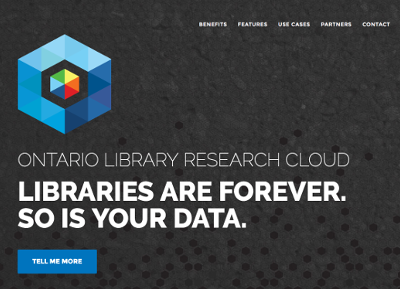
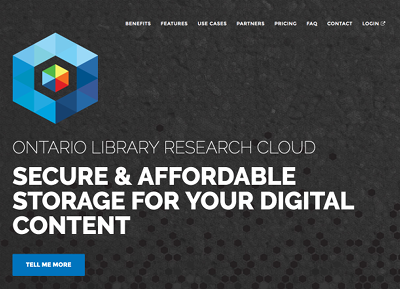
Added FAQ and updated content

Changed region(s): [[0.03, 0.0934, 0.9, 0.8097], [0.03, 0.8408, 0.24, 0.9654], [0.3, 0.0623, 0.99, 0.0934]]

diff --git a/themes/hugo-agency-theme/layouts/partials/pricing.html b/themes/hugo-agency-theme/layouts/partials/pricing.html
@@ -8,26 +8,20 @@
                 <h3 class="section-subheading text-mutedwith ">{{ with .Site.Params.pricing.subtitle }}{{ . | markdownify }}{{ end }}</h3>
             </div>
         </div>
-
-        <div class="table-responsive">
-            <table class="table table-bordered table-hover">
+        <div class="table-responsive col-sm-8 col-sm-offset-2">
+            <table class="table">
                 <tr>
-                    <th>Service</th>
+                    <th></th>
                     <th>OCUL Libraries</th> 
                     <th>Other Canadian Libraries</th>
                 </tr>
                 <tr>
-                    <td>Base Subscription<br>
-                    <div class="tab-indent"><em>Includes:</em></div>
-                    <div class="tab-indent"><em>5TB of object storage</em></div>
-                    <div class="tab-indent"><em>Technical support from Scholars Portal staff</em></div>
-                    <div class="tab-indent"><em>Voting representation on governance group (OCUL only)</em></div>
-                    </td>
+                    <td>Base Subscription *</td>
                     <td>$1600/year</td>
                     <td>$3950/year</td>
                 </tr>
                 <tr>
-                    <td colspan="3">Additional Storage</td>
+                    <td colspan="3">Additional Storage:</td>
                 </tr>
                 <tr>
                     <td class="tab-indent">Per 1 TB</td>
@@ -45,10 +39,7 @@
                     <td>$39500/year</td>
                 </tr>
                 <tr>
-                    <td>Data Transfer Services
-                        <div class="tab-indent"><em>From disk or tape to the cloud</em></div>
-                        <div class="tab-indent"><em>Charged per hour of staff time</em></div>
-                    </td>
+                    <td>Data Transfer Services **</td>
                     <td>$75/hour</td>
                     <td>$100/hour</td>
                 </tr>
@@ -61,6 +52,9 @@
                     <td colspan="2">Pricing Available on Request</td>
                 </tr>
             </table>
+            <br>
+            <div>*  Includes 5TB of object storage, technical support from Scholars Portal staff, and voting representation on governance group (OCUL libraries only)</div><br>
+            <div>** From disk or tape to the cloud; Charged per hour of staff time</div>
         </div>
     </div>
 </section>

diff --git a/themes/hugo-agency-theme/layouts/partials/faq.html b/themes/hugo-agency-theme/layouts/partials/faq.html
@@ -1,0 +1,23 @@
+{{ "<!-- FAQ Section -->" | safeHTML }}
+<section id="faq">
+    <div class="container">
+        <div class="row">
+            <div class="col-lg-12 text-center">
+                <h2 class="section-heading">{{ with .Site.Params.faq.title }}{{ . | markdownify }}{{ end }}</h2>
+                <h3 class="section-subheading text-mutedwith ">{{ with .Site.Params.faq.subtitle }}{{ . | markdownify }}{{ end }}</h3>
+            </div>
+        </div>
+        <div class="row">
+            {{ range .Site.Params.questions }}
+            <div class="col-sm-8 col-sm-offset-2">
+                <div>
+                    <details>
+                        <summary class="faq-question text">{{ .question | markdownify }}</summary>
+                        <p class="faq-answer">{{ .answer | markdownify }}</p>
+                    </details>
+                </div>
+            </div>
+            {{ end }}
+        </div>
+    </div>
+</section>

diff --git a/themes/hugo-agency-theme/layouts/partials/nav.html b/themes/hugo-agency-theme/layouts/partials/nav.html
@@ -63,6 +63,12 @@
                 </li>
                 {{ end }}
 
+                {{ if .Site.Params.faq.enable }}
+                <li>
+                    <a class="page-scroll" href="#faq">{{ with .Site.Params.navigation.faq }}{{ . | markdownify }}{{ end }}</a>
+                </li>
+                {{ end }}
+
                 {{ if .Site.Params.contact.enable }}
                 <li>
                     <a class="page-scroll" href="#contact">{{ with .Site.Params.navigation.contact }}{{ . | markdownify }}{{ end }}</a>

diff --git a/themes/hugo-agency-theme/layouts/partials/services.html b/themes/hugo-agency-theme/layouts/partials/services.html
@@ -11,7 +11,7 @@
         {{ range .Site.Params.services.row }}
         <div class="row text-center">
             {{ range .list }}
-            <div class="col-md-4">
+            <div class="col-md-3">
                 <span class="fa-stack fa-4x">
                     <i class="fa fa-circle fa-stack-2x text-primary"></i>
                     <i class="fa {{ .icon }} fa-stack-1x fa-inverse"></i>

diff --git a/themes/hugo-agency-theme/static/css/agency.css b/themes/hugo-agency-theme/static/css/agency.css
@@ -757,6 +757,17 @@ table td {
     font-family: "Roboto Slab","Helvetica Neue",Helvetica,Arial,sans-serif;
 }
 
+.faq-question {
+    font-size: 18px;
+    font-family: Montserrat,"Helvetica Neue",Helvetica,Arial,sans-serif;
+    padding-bottom: 10px;
+}
+
+.faq-answer {
+    font-size: 16px;
+    padding-bottom: 15px;
+}
+
 .tab-indent {
     text-indent: 1.5em;
 }

diff --git a/themes/hugo-agency-theme/layouts/index.html b/themes/hugo-agency-theme/layouts/index.html
@@ -31,6 +31,10 @@
             {{ partial "pricing.html" . }}
         {{ end }}
 
+        {{ if .Site.Params.faq.enable }}
+            {{ partial "faq.html" . }}
+        {{ end }}
+
         {{ if .Site.Params.contact.enable }}
             {{ partial "contact.html" . }}
         {{ end }}
